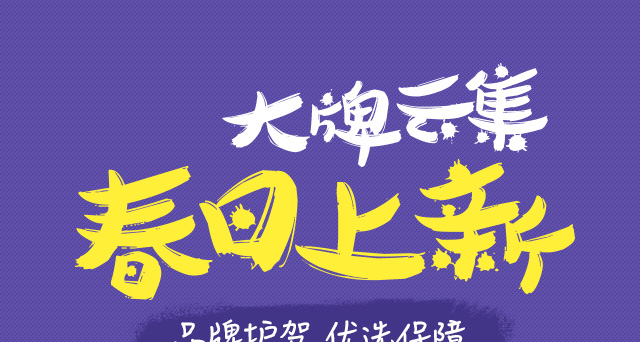
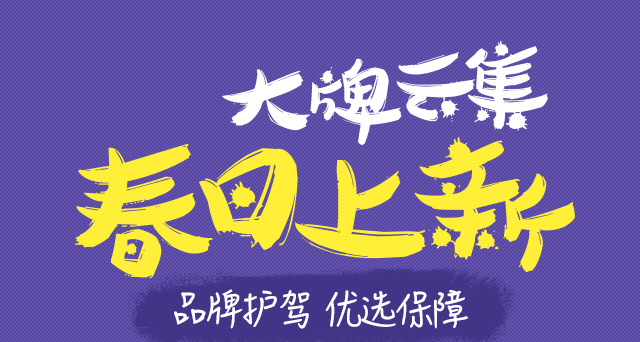
h5
7

Changed region(s): [[0.0938, 0.117, 0.9062, 1.0], [0.75, 0.9649, 0.8125, 1.0], [0.1875, 0.9942, 0.25, 1.0]]

diff --git a/h5/index.html b/h5/index.html
@@ -42,7 +42,7 @@ body { margin: 0 auto; min-width: 320px; max-width: 640px; height: 100%; font-si
     </head>
     <body>
 <article id="J_pages" class="pages">
-      <section class="section    section1 ">
+      <section class="section show   section1 ">
     <div class="container"> <img src="img/p1_01.jpg"> <img src="img/p1_02.jpg" > <img src="img/p1_03.jpg" > <span class="arrow arrow1_1"></span> <span class="arrow arrow1_2"></span> </div>
   </section>
       <section class="section   section2">
@@ -54,10 +54,10 @@ body { margin: 0 auto; min-width: 320px; max-width: 640px; height: 100%; font-si
       <section class="section   section4">
     <div class="container"> <img src="img/p4_01.jpg" > <img src="img/p4_02.jpg" > <img src="img/p4_03.jpg" > <span class="arrow arrow4_1"></span> <span class="arrow arrow4_2"></span> </div>
   </section>
-      <section class="section show section5">
+      <section class="section section5">
     <div class="container"> <img src="img/p5_01.jpg" > <img src="img/p5_02.jpg" > <img src="img/p5_03.jpg"  usemap="#Map">
           <map name="Map">
-        <area shape="rect" coords="150,111,387,216" href="http://www.paipai.com/m2/2014/import/2505/index.shtml" target="_blank">
+        <area shape="rect" coords="152,72,389,177" href="http://www.paipai.com/m2/2014/import/2505/index.shtml" target="_blank">
       </map>
           <span class="arrow arrow5_1"></span> <span class="arrow arrow5_2"></span> </div>
   </section>
